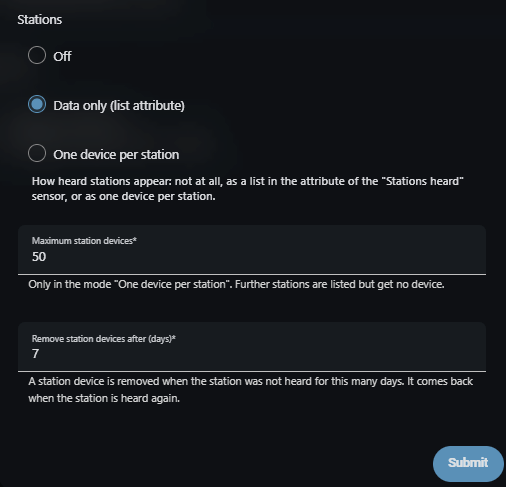
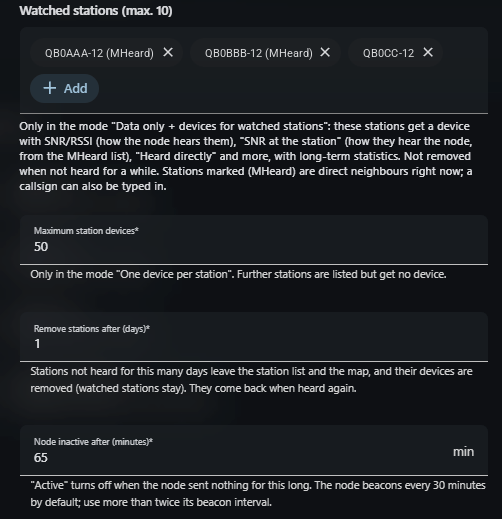
README: screenshots for remote management and station options (#57)

diff --git a/README.md b/README.md
@@ -53,9 +53,9 @@ station.
 | ![UDP setup](docs/images/ha-add-udp.png) | ![KISS setup](docs/images/ha-add-kiss.png) |
 | **External UDP** setup | **KISS over TCP** setup |
 | ![Options](docs/images/ha-options.png) | ![Station options](docs/images/ha-options-stations.png) |
-| **Options**: groups, users who may send, own groups only | **Options**: how heard stations appear |
-| ![Console](docs/images/panel-console.png) | |
-| **Console** (administrators): the node's net console with quick commands; risky commands need a confirmation | |
+| **Options**: groups, users who may send, own groups only | **Station options**: watched stations, device limit, removal after days |
+| ![Console](docs/images/panel-console.png) | ![Add a remote-managed node](docs/images/ha-add-remote.png) |
+| **Console** (administrators): the node's net console with quick commands; risky commands need a confirmation | **Remote management**: add another node by callsign and its password; it gets its own device |
 
 ## Supported devices
 
